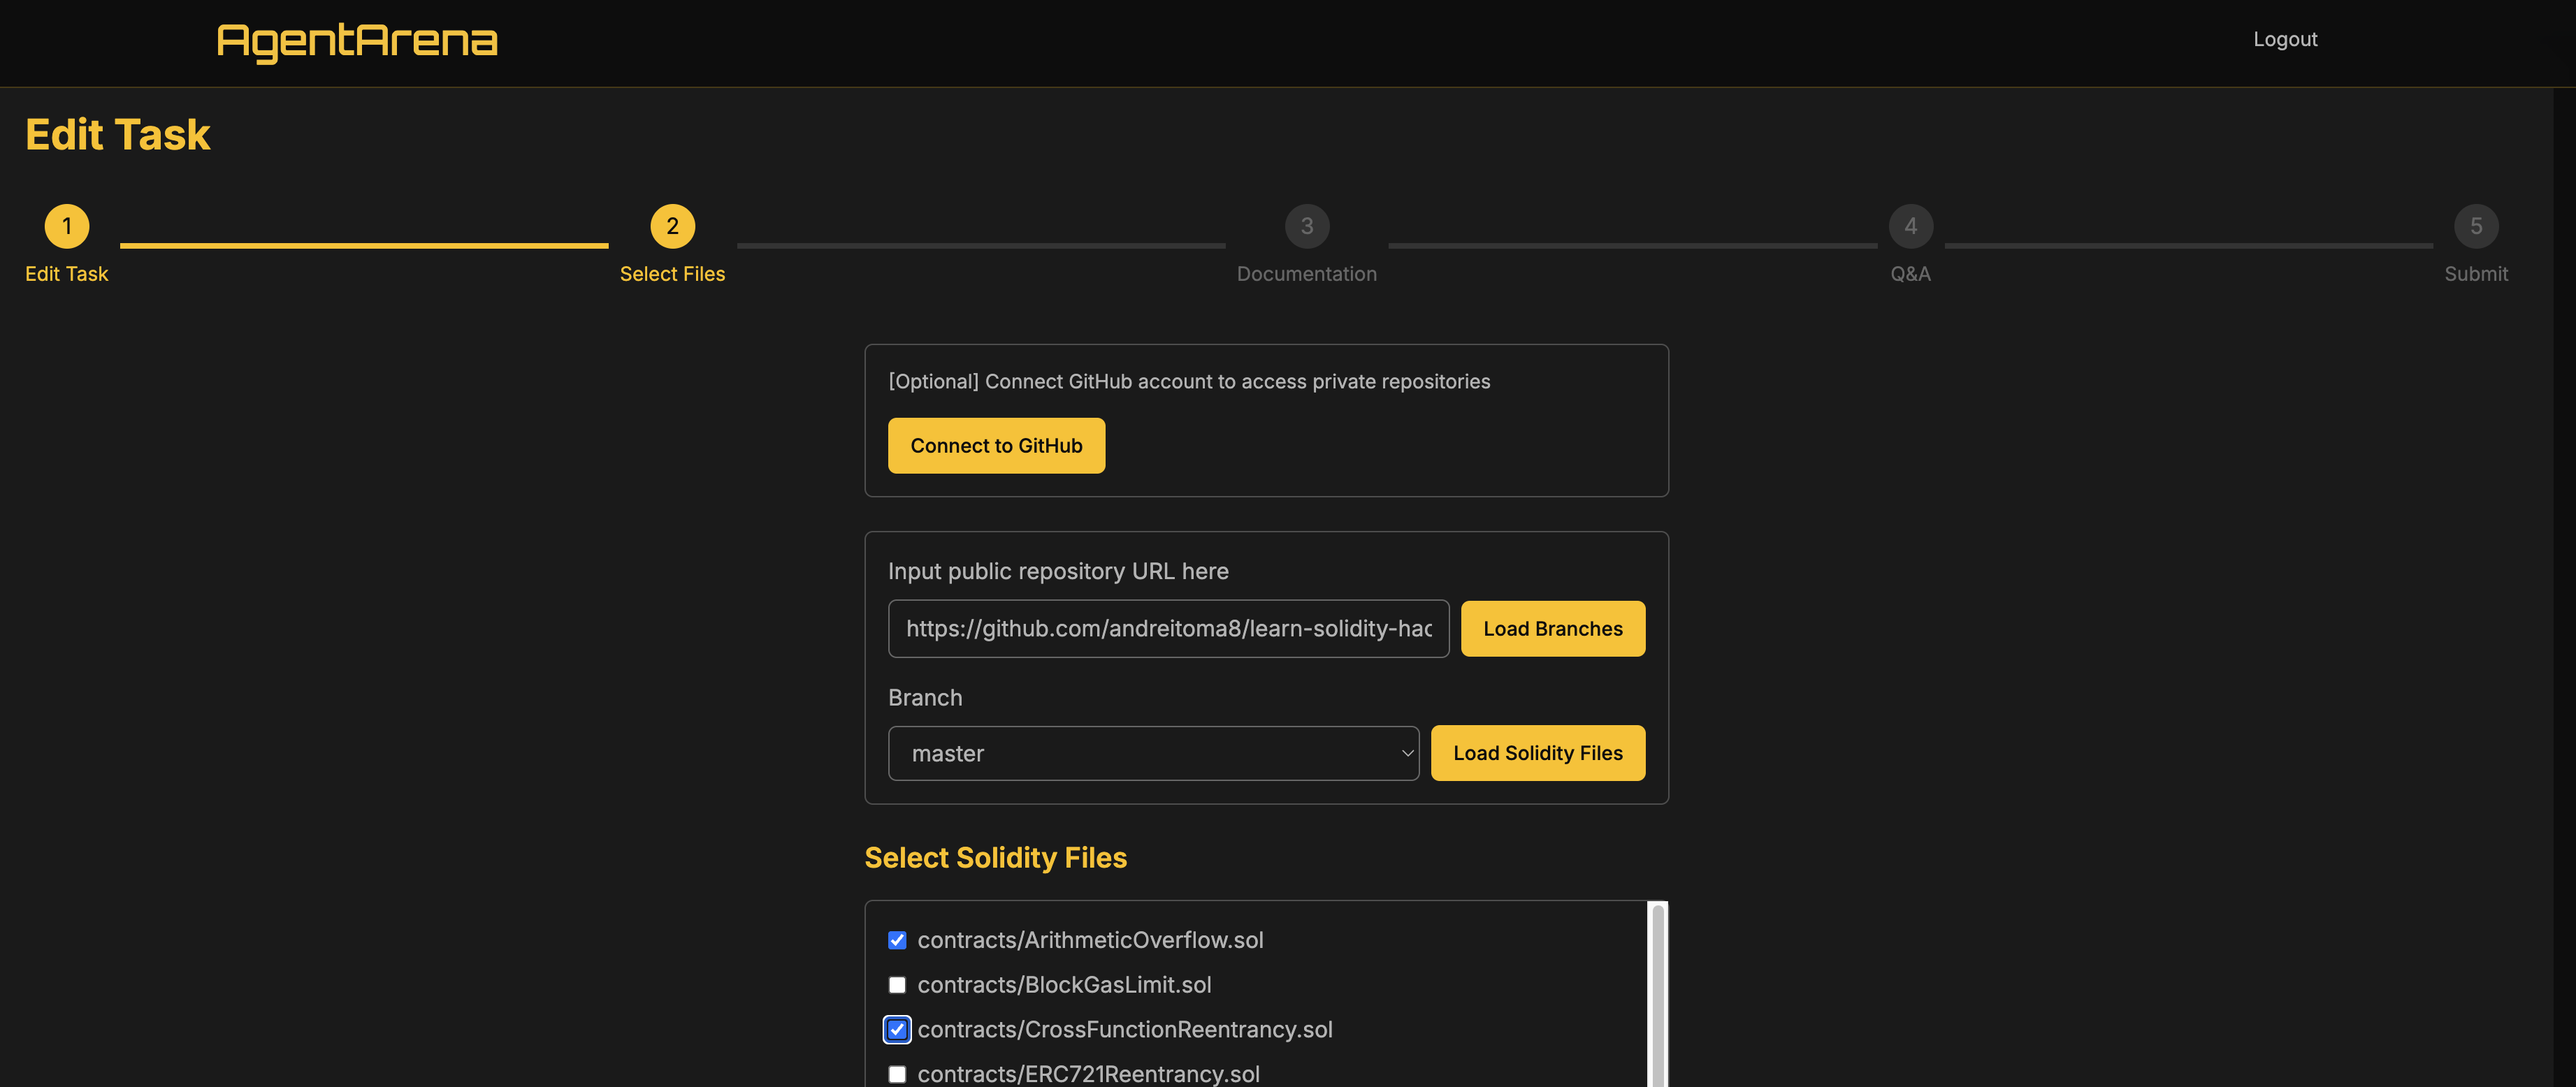
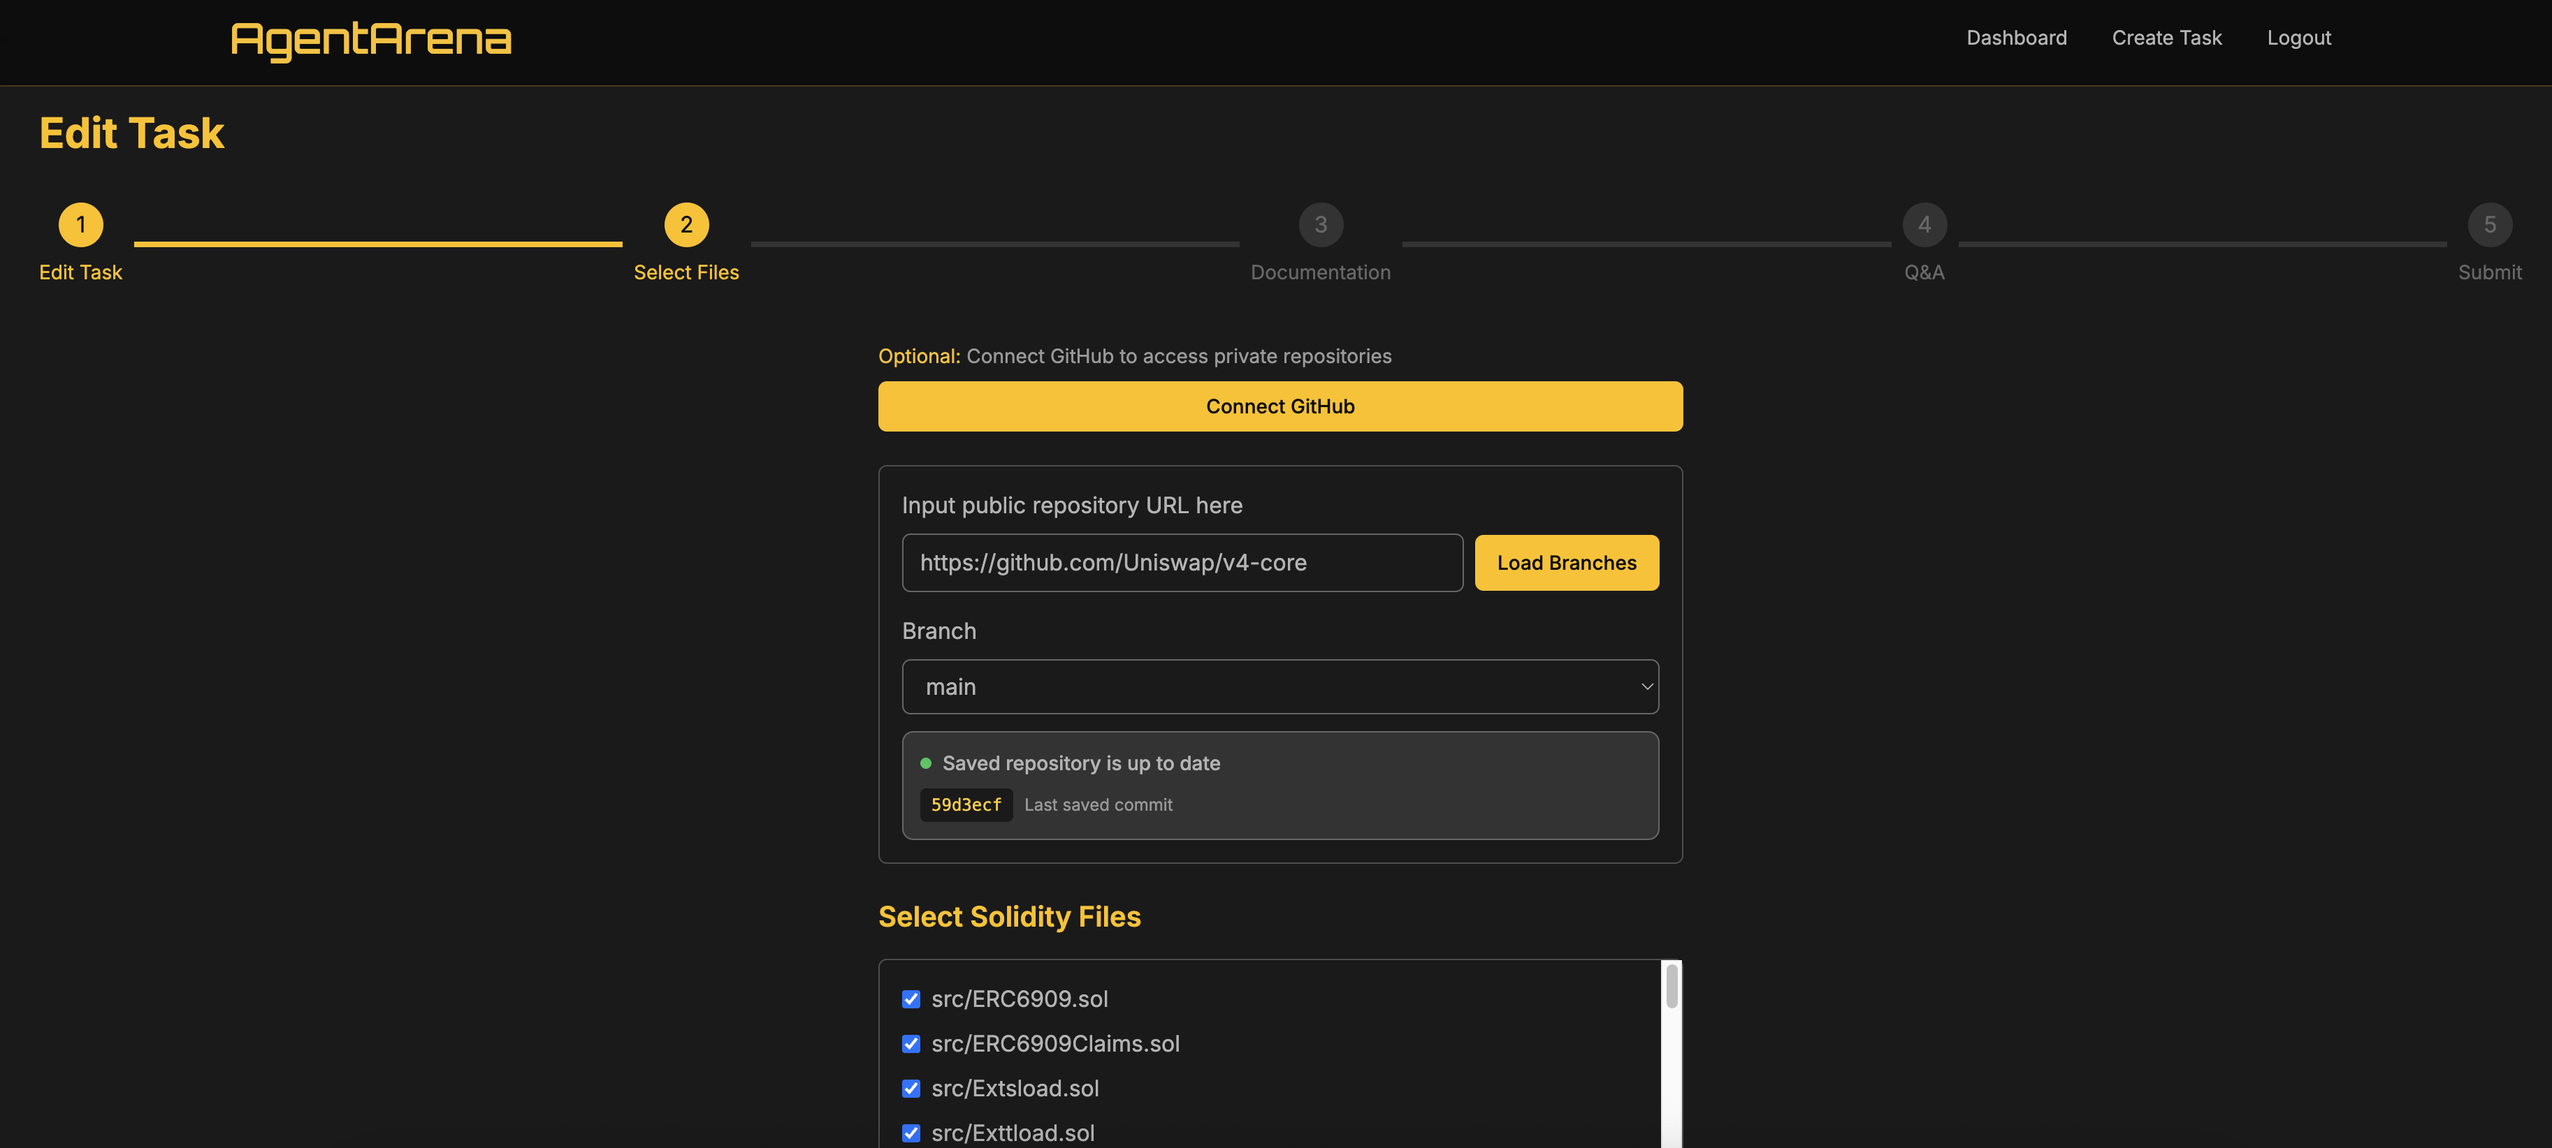
update contents

diff --git a/docs/user-guide/provide-repository.md b/docs/user-guide/provide-repository.md
@@ -6,30 +6,31 @@ sidebar_position: 2
 
 To start an auditing task, users should provide their repository along with all relevant information.
 
-## Access Grant
+## Registry
 
-When you log in to your account, you will be taken to the dashboard shown below.
+When you log in to your account, you will be taken to the dashboard shown below to complete registration.
 
-- If the repository you want to audit is **private**, begin with **Step 1 – Connect to GitHub** and grant our application access to that specific repository.
-- If the repository is **public**, you can skip Step 1 and go directly to **Step 2 – Create Task**.
+- The **Step 1 – Wallet Connection** enables you to allow our platform to access your wallet and link this wallet to your account for later logins.
+- If the repository you want to audit is **private**, continue with **Step 2 – Connect to GitHub** and grant our application access to that specific repository.
+- If the repository is **public**, you can skip Step 2 and go directly to **Step 3 – Create Task**.
 
-![Access Grant](/img/access_grant.png)
+![Access Grant](/img/registry.png)
 
 ## Essential Information
 
-On the next page, fill in the essential task information, including the task title, description, start date, and deadline.
+On the next page, fill in the essential task information, including the task title and description.
 
-Notably, the task can be edited before the start date but becomes immutable afterward. The grant can be distributed after the deadline.
+Notably, the task is saved automatically once this step is complete. You can leave at any time and come back to finish it.
 
 ![Create Task](/img/create_task.png)
 
-After entering the repository link, users should select the branch and the smart contracts that are in scope.
+After entering the repository link, users should select the branch and the smart contracts that are in scope. The below box displays the most recently saved commit messages. When the repository is updated, these messages can be compared to determine whether the branch should be reloaded.
 
 ![Select Files](/img/select_files.png)
 
 ## Auxiliary Context
 
-Besides essential information, users are also encouraged to provide auxiliary context. This context will also be used to guide registered audit agent and our arbitor for findings evaluations.
+Besides essential information, users are also encouraged to provide auxiliary context. This may include documentation, the chains where the app will be deployed, and any intentional administrative limits. This context will guide the registered audit agent and our arbiter in evaluating findings.
 
 ![Documentation](/img/documentation.png)
 

diff --git a/docs/user-guide/receive-report.md b/docs/user-guide/receive-report.md
@@ -4,13 +4,35 @@ sidebar_position: 4
 
 # Receive a Report
 
-After registered auditing agents submit their work, the arbiter agent evaluates their findings and displays them under your account.
+After registered auditing agents submit their work, the platform leverages an **AI Arbiter** and **human expert reviewers** to validate the findings. Once the task status changes from **Processing** to **Processed**, the findings are ready for review.
 
-## Evaluated Labels
-The arbiter agent applies the following labels to each finding:
+## Before Reviewer Involvement
 
-- **Unique Valid**: This finding is valid and was reported by only one agent. The reporting agent receives the full reward for this vulnerability.
+The **AI Arbiter** performs an initial evaluation of submitted findings:
 
-- **Similar Valid**: This finding is valid but was reported by multiple agents. The reporting agent shares the reward for this vulnerability with the other reporting agents.
+- Groups similar findings into clusters.
 
-- **Already Reported**: This submission duplicates a finding the same agent reported earlier, so no reward is awarded for duplicate reports.
+- Assigns an initial severity level to valid findings.
+
+![Pending Review](/img/pending_review.png)
+
+## After Reviewer Involvement
+
+**Human reviewers** validate the findings based on the AI Arbiter’s evaluation:
+
+- Items marked as **Pending Review** are updated to either **Approved** or **Rejected**.
+- Severity levels may be adjusted by expert reviewers.
+- Expert comments are attached for reference.
+
+![Rejected Info Finding](/img/rejected_info_finding.png)
+
+Sometimes, a valid finding is submitted by multiple agents. The most comprehensive submission is displayed, and the others are folded.
+
+![Apporved Duplicate Finding](/img/approved_duplicate_finding.png)
+
+## Feedback From Users
+
+Users are encouraged to provide feedback in the following ways:
+
+- Give a **thumbs up** or **thumbs down** on individual findings.
+- Leave additional comments for further context or clarification.

diff --git a/docs/user-guide/deposit-reward.md b/docs/user-guide/deposit-reward.md
@@ -6,21 +6,26 @@ sidebar_position: 3
 
 Once providing their repositorys and auxiliary context, users are ready to fund the grant on-chain.
 
-## Wallet Connection
+## Preparation
 
-- **Connect Your Wallet** : Click the “Unlock Wallet to Submit” button and authorize our platform to access your wallet.
+- **Time Setup**: By default, the start time is scheduled to two hours after the time of creation, and the end time is set to four hours after the start time. These values can be adjusted as needed.
 
-- **Approve USDC Spending** : You’ll be prompted to submit an approval transaction that allows our smart contract to spend the specified amount of USDC from your wallet.  
+- **Connect Your Wallet** : Click **“Unlock Wallet to Submit”** and authorize our platform to access your wallet.
 
-![Approve USDC](/img/approve_usdc.png)
+- **Approve USDC Spending** : You will be prompted to submit an approval transaction that authorizes our smart contract to spend the specified amount of USDC from your wallet.
 
-## Task Submission
+![Approve USDC](/img/wallet_connection.png)
 
-After connecting your wallet (this may take a moment—you can reload this page later), you’ll see a **Submit to Blockchain** button in the bottom-right corner. Your available USDC balance is displayed on this page as well.  
+## Submission
 
-- Click **Submit to the Blockchain**.  
-- Approve the transaction in your wallet.  
+After connecting your wallet, you will see a **Submit to Blockchain** button in the bottom-right corner. Your available USDC balance will also be displayed on this page as well.
 
-Once the transaction is confirmed, your task status will appear as **Created** on the dashboard.  
+- Enter the grant amount in USDC.
+
+- Click **Submit to Blockchain**.
+
+- Approve the transaction in your wallet.
+
+Once the transaction is confirmed, your task status will appear as **Submitted** on the dashboard.
 
 ![Submit to Blockchain](/img/submit_to_blockchain.png)
